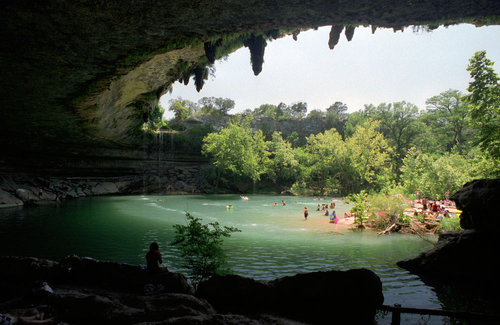
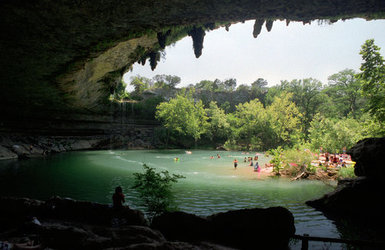
set paperclip default image size to 400x250, which is same size as the stock photos.

diff --git a/app/models/photo.rb b/app/models/photo.rb
@@ -3,7 +3,7 @@ class Photo < ApplicationRecord
   # belongs_to :space
 
   has_attached_file :image,
-  styles: { thumb: ["150x150#", :jpg], original: ['500x500>', :jpg] },
+  styles: { thumb: ["400x250#", :jpg], original: ['400x250>', :jpg] },
   convert_options: { thumb: "-quality 75 -strip", original: "-quality 85 -strip" }
 
   # has_attached_file :image, url: "/system/:hash.:extension", hash_secret: "abc123"
